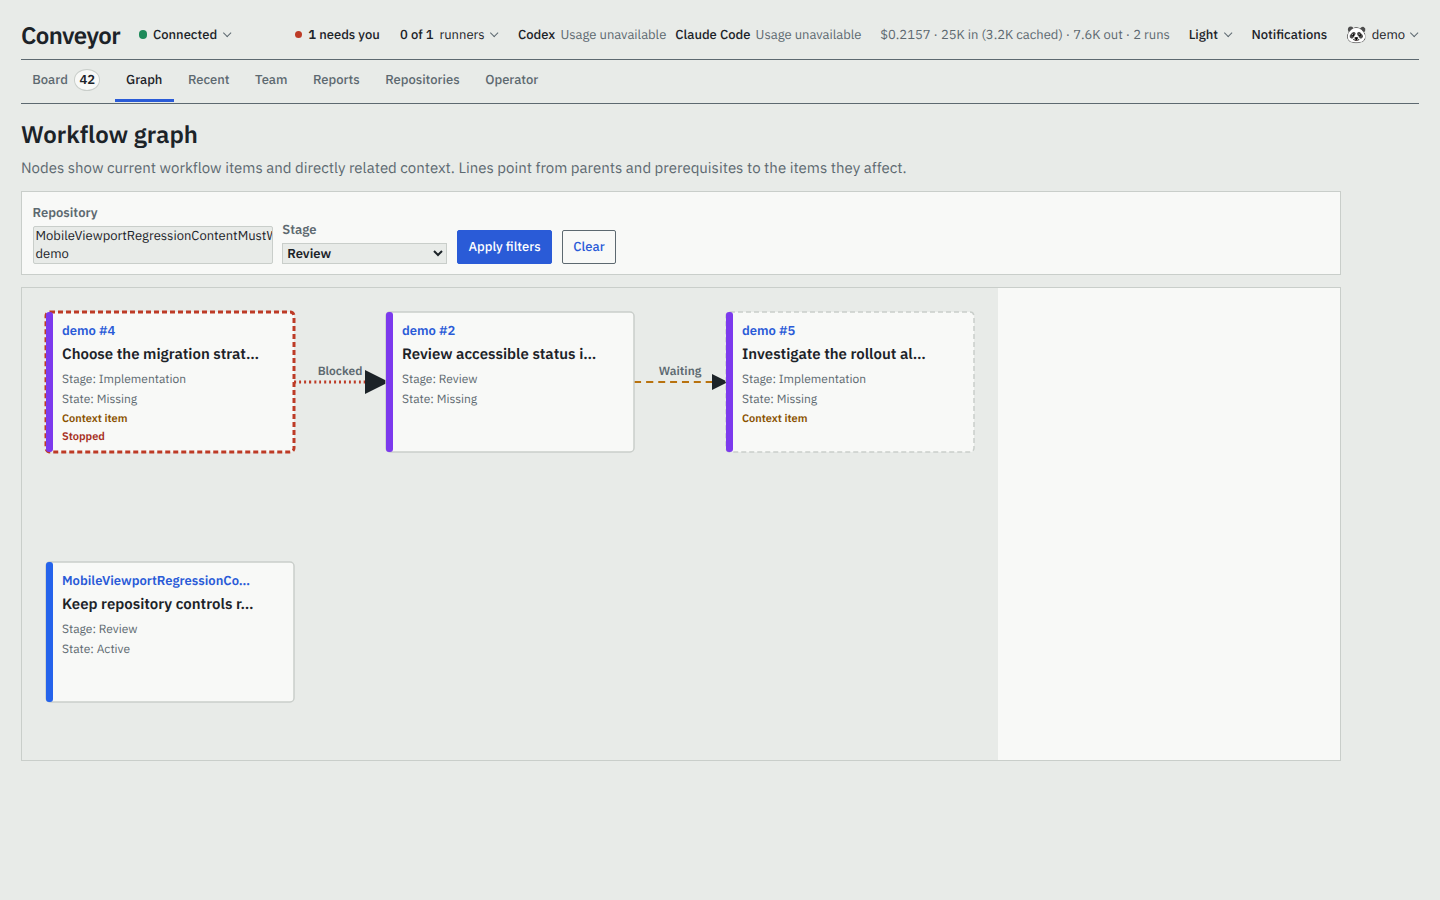
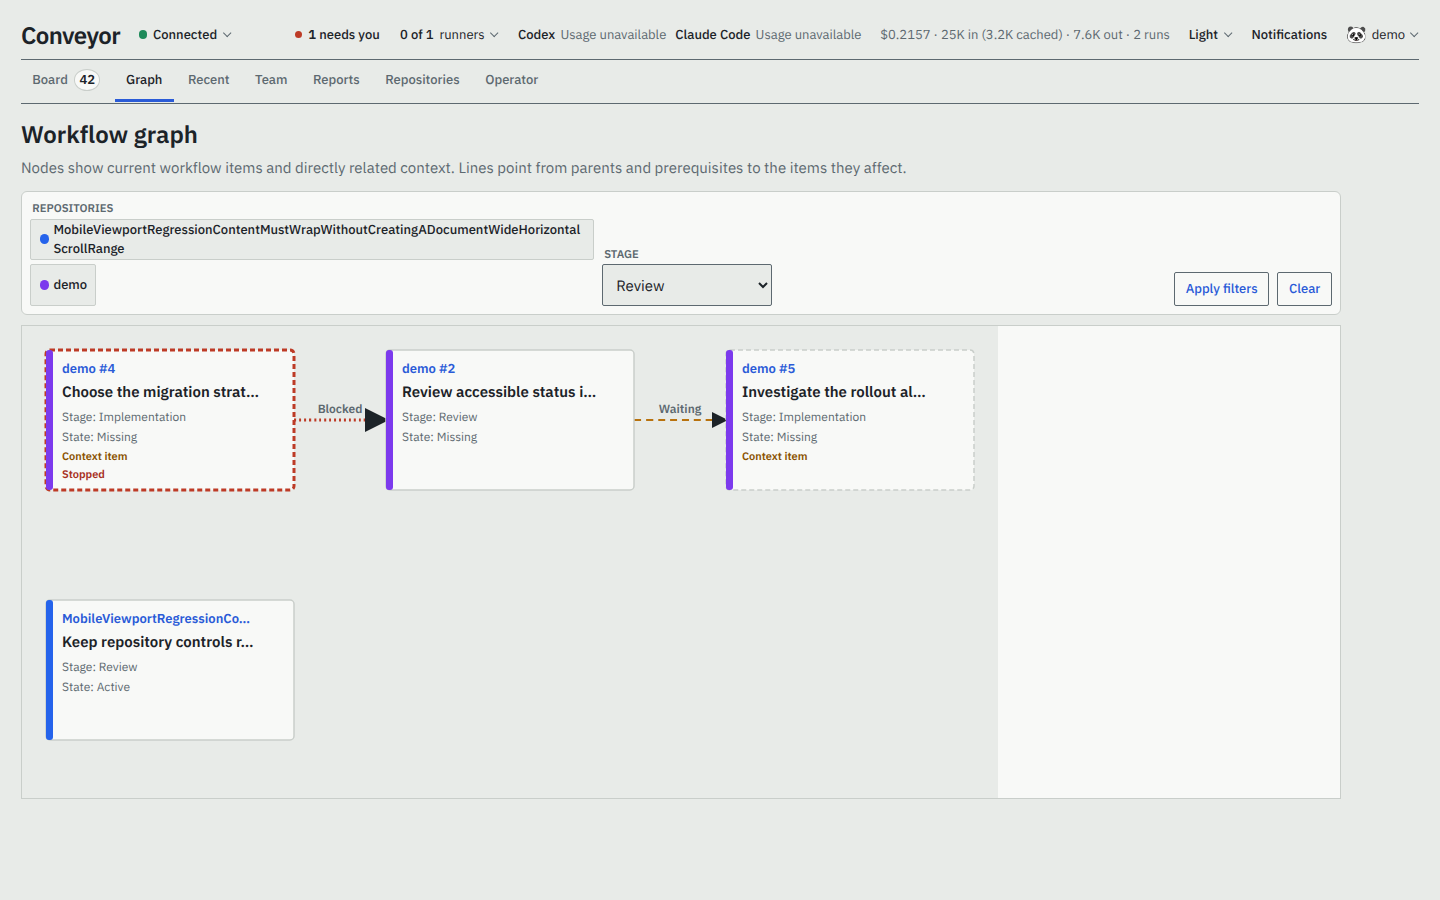
Match graph filters to board controls

diff --git a/src/web/styles.ts b/src/web/styles.ts
@@ -84,6 +84,10 @@ html{scrollbar-color:var(--steel) var(--concrete)}::selection{background:var(--s
 /* Item-detail header metadata wraps before overflowing the narrow inspector. */
 .details-kicker{flex-wrap:wrap}.details-stage-badge{flex:none;white-space:nowrap}.details-stage-icon{line-height:1}.details-source-link{min-width:0;overflow-wrap:anywhere}.details-header-actions{flex:none}
 @media(max-width:760px){.details-kicker{gap:.3rem}.details-source-link{flex-basis:100%}}
+` + `
+a:focus-visible,button:focus-visible,input:focus-visible,select:focus-visible,textarea:focus-visible,summary:focus-visible,[tabindex]:focus-visible{outline:3px solid var(--signal);outline-offset:2px}
+.board-filter-select{min-width:0;min-height:2.75rem;box-sizing:border-box;border:1px solid var(--steel);border-radius:2px;background:var(--concrete);color:var(--ink);padding:.45rem .6rem;font:inherit}
+@media(max-width:760px){.board-filter-choices{grid-column:1/-1}.board-filter-select{width:100%}}
 `;
 
 export const stickyNavigationCss = `
@@ -97,7 +101,7 @@ export const stickyNavigationOverridesCss = `
 
 /** Relationship-first layout for the read-only workflow graph. */
 export const graphCss = `
-.graph-view{min-width:0;max-width:88rem}.graph-header{margin:0 0 .8rem}.graph-header h2{margin:0;font-size:var(--text-xl)}.graph-header p{margin:.3rem 0 0;color:var(--steel)}.graph-empty{margin:0;padding:.8rem;border:1px solid var(--line);background:var(--panel);color:var(--steel)}.graph-filters{display:flex;flex-wrap:wrap;gap:.65rem;align-items:end;margin:0 0 .8rem;padding:.7rem;border:1px solid var(--line);background:var(--panel)}.graph-filters label{display:grid;gap:.25rem;color:var(--steel);font-size:var(--text-sm);font-weight:600}.graph-filters select{min-width:11rem;max-width:16rem;background:var(--concrete);color:var(--ink);border:1px solid var(--line);font:inherit}.graph-filter-actions{display:flex;gap:.65rem;align-items:center}.graph-canvas{max-width:100%;overflow-x:auto;overflow-y:hidden;border:1px solid var(--line);background:var(--panel);scrollbar-color:var(--steel) var(--concrete)}.graph-svg{display:block;min-width:44rem;background:var(--concrete)}.graph-edge path{fill:none;stroke:var(--signal);stroke-width:2}.graph-edge path+text{font-size:12px;font-weight:700;paint-order:stroke;stroke:var(--concrete);stroke-width:4px;stroke-linejoin:round;fill:var(--steel)}.graph-edge--dependency path{stroke:var(--wait);stroke-dasharray:7 5}.graph-edge--satisfied path{stroke:var(--run);stroke-dasharray:none}.graph-edge--stopped path{stroke:var(--stop);stroke-dasharray:2 3;stroke-width:3}.graph-edge--satisfied text{fill:var(--run-text)}.graph-edge--outstanding text{fill:var(--wait-text)}.graph-edge--stopped text{fill:var(--stop-text)}.graph-svg marker path{fill:var(--ink)}.graph-node{cursor:pointer}.graph-node rect:first-of-type{fill:var(--panel);stroke:var(--line);stroke-width:1.5}.graph-node-color{fill:var(--repo-color);stroke:none}.graph-node--context rect:first-of-type{stroke-dasharray:5 3}.graph-node--context .graph-node-color{fill:var(--wait)}.graph-node--stop rect:first-of-type{stroke:var(--stop);stroke-width:3}.graph-node--stop .graph-node-color{fill:var(--stop)}.graph-node-reference{fill:var(--signal);font-size:13px;font-weight:700}.graph-node-title{fill:var(--ink);font-size:15px;font-weight:700}.graph-node-detail{fill:var(--steel);font-size:12px}.graph-node-badge,.graph-node-stop{font-size:11px;font-weight:700}.graph-node-badge{fill:var(--wait-text)}.graph-node-stop{fill:var(--stop-text)}.graph-node:focus{outline:none}.graph-node:focus rect:first-of-type,.graph-node:hover rect:first-of-type{stroke:var(--signal);stroke-width:3}.graph-node--stop:focus rect:first-of-type,.graph-node--stop:hover rect:first-of-type{stroke:var(--stop)}.graph-relationships{margin:.8rem 0 0;padding:.7rem;border:1px solid var(--line);background:var(--panel)}.graph-relationships ol{margin:0;padding:0;list-style:none}.graph-relationship{font-size:var(--text-sm)}.graph-relationship span{color:var(--steel)}@media(max-width:760px){.graph-view{max-width:100%}.graph-filters{align-items:stretch}.graph-filters label,.graph-filters select{max-width:none;min-width:0;width:100%}.graph-filter-actions>*:not(.action-button){min-height:2rem;display:inline-flex;align-items:center}.graph-canvas{width:100%}.graph-svg{min-width:44rem}}
+.graph-view{min-width:0;max-width:88rem}.graph-header{margin:0 0 .8rem}.graph-header h2{margin:0;font-size:var(--text-xl)}.graph-header p{margin:.3rem 0 0;color:var(--steel)}.graph-empty{margin:0;padding:.8rem;border:1px solid var(--line);background:var(--panel);color:var(--steel)}.graph-canvas{max-width:100%;overflow-x:auto;overflow-y:hidden;border:1px solid var(--line);background:var(--panel);scrollbar-color:var(--steel) var(--concrete)}.graph-svg{display:block;min-width:44rem;background:var(--concrete)}.graph-edge path{fill:none;stroke:var(--signal);stroke-width:2}.graph-edge path+text{font-size:12px;font-weight:700;paint-order:stroke;stroke:var(--concrete);stroke-width:4px;stroke-linejoin:round;fill:var(--steel)}.graph-edge--dependency path{stroke:var(--wait);stroke-dasharray:7 5}.graph-edge--satisfied path{stroke:var(--run);stroke-dasharray:none}.graph-edge--stopped path{stroke:var(--stop);stroke-dasharray:2 3;stroke-width:3}.graph-edge--satisfied text{fill:var(--run-text)}.graph-edge--outstanding text{fill:var(--wait-text)}.graph-edge--stopped text{fill:var(--stop-text)}.graph-svg marker path{fill:var(--ink)}.graph-node{cursor:pointer}.graph-node rect:first-of-type{fill:var(--panel);stroke:var(--line);stroke-width:1.5}.graph-node-color{fill:var(--repo-color);stroke:none}.graph-node--context rect:first-of-type{stroke-dasharray:5 3}.graph-node--context .graph-node-color{fill:var(--wait)}.graph-node--stop rect:first-of-type{stroke:var(--stop);stroke-width:3}.graph-node--stop .graph-node-color{fill:var(--stop)}.graph-node-reference{fill:var(--signal);font-size:13px;font-weight:700}.graph-node-title{fill:var(--ink);font-size:15px;font-weight:700}.graph-node-detail{fill:var(--steel);font-size:12px}.graph-node-badge,.graph-node-stop{font-size:11px;font-weight:700}.graph-node-badge{fill:var(--wait-text)}.graph-node-stop{fill:var(--stop-text)}.graph-node:focus{outline:none}.graph-node:focus rect:first-of-type,.graph-node:hover rect:first-of-type{stroke:var(--signal);stroke-width:3}.graph-node--stop:focus rect:first-of-type,.graph-node--stop:hover rect:first-of-type{stroke:var(--stop)}.graph-relationships{margin:.8rem 0 0;padding:.7rem;border:1px solid var(--line);background:var(--panel)}.graph-relationships ol{margin:0;padding:0;list-style:none}.graph-relationship{font-size:var(--text-sm)}.graph-relationship span{color:var(--steel)}@media(max-width:760px){.graph-view{max-width:100%}.graph-canvas{width:100%}.graph-svg{min-width:44rem}}
 `;
 
 export const quotaHeaderCss = `

diff --git a/tests/web/refresh-position.test.ts b/tests/web/refresh-position.test.ts
@@ -44,6 +44,16 @@ function issue(id: string, number: number, title = id): IssueCardViewModel {
   };
 }
 
+function repository(id: string, color: number): DashboardViewModel["repositories"][number] {
+  return {
+    id, address: `owner/${id}`, addressUrl: null, color, health: "healthy", error: null, errorSummary: null, lastReconciledAt: null, pause: null,
+    backlog: 0, stages: [], done: 0, items: [], deliveries: [], skippedReviewItems: [], capacity: { busy: 0, slots: 1 },
+    setup: { pipeline: "delivery", baseBranch: "main", itemProvider: "github", itemSync: "polling", webhooks: null, githubCalls: { total: 0, bySource: [] }, ciProvider: null, ciMode: "disabled", systemLabels: [] },
+    trust: { visibility: "unknown", checkedAt: null, warning: null, permissionThreshold: "write, maintain, or admin", extraTrustedLogins: [], ignoredInputCategories: [] },
+    report30d: { delivered: 0, inputTokens: 0, outputTokens: 0, agentMs: 0 },
+  };
+}
+
 function stage(id: string, name: string, issues: readonly IssueCardViewModel[]): StageColumnViewModel {
   return { id, name, actors: [], cost: null, totalIssues: issues.length, page: 1, totalPages: 1, issues };
 }
@@ -411,10 +421,17 @@ describe("dashboard live refresh position", () => {
   }, 30_000);
 
   test("keeps the Graph usable at 360 px without horizontal page scrolling", async () => {
+    const repositories = [repository("sample", 1), repository("foundation", 2)];
     const server = startDashboard({
       dashboard: (selection) => ({
         ...dashboard("graph-1", [issue("parent", 41), issue("child", 42), issue("prerequisite", 7)]),
         view: selection.view,
+        repositories,
+        graphFilters: {
+          repositories: selection.repositoryIds ?? [],
+          stage: selection.graphStage ?? null,
+          stages: [{ id: "implementation", name: "Implementation" }, { id: "review", name: "Review" }],
+        },
         graph: {
           nodes: [
             { id: "parent", repository: "sample", repositoryColor: 1, number: 41, title: "A deliberately long parent title that must wrap inside a phone viewport", state: "Active", stage: "Implementation", context: false, signal: "run" },
@@ -435,6 +452,23 @@ describe("dashboard live refresh position", () => {
       const page = await browser.newPage({ viewport: { width: 360, height: 800 }, isMobile: true, hasTouch: true, reducedMotion: "reduce" });
       await signIn(page, server.port);
       await page.goto(`http://127.0.0.1:${server.port}/graph`);
+
+      const sampleRepository = page.getByRole("checkbox", { name: "sample" });
+      const foundationRepository = page.getByRole("checkbox", { name: "foundation" });
+      await sampleRepository.focus();
+      await page.keyboard.press("Space");
+      expect(await sampleRepository.isChecked()).toBe(true);
+      await foundationRepository.focus();
+      await page.keyboard.press("Space");
+      expect(await foundationRepository.isChecked()).toBe(true);
+      await page.getByLabel("Graph stage").selectOption("review");
+      await Promise.all([
+        page.waitForURL("**/graph?repo=sample&repo=foundation&stage=review"),
+        page.getByRole("button", { name: "Apply filters" }).click(),
+      ]);
+      expect(await sampleRepository.isChecked()).toBe(true);
+      expect(await foundationRepository.isChecked()).toBe(true);
+      expect(await page.getByLabel("Graph stage").inputValue()).toBe("review");
 
       expect(await page.locator(".graph-node").count()).toBe(3);
       expect(await page.locator(".graph-relationship--dependency").textContent()).toContain("Status: stopped prerequisite");
@@ -458,6 +492,16 @@ describe("dashboard live refresh position", () => {
       await prerequisiteNode.focus();
       await prerequisiteNode.press("Enter", { noWaitAfter: true });
       await page.waitForFunction(() => document.querySelector('dialog.issue-details[open]')?.getAttribute('data-issue-id') === 'prerequisite');
+      await page.keyboard.press("Escape");
+      await page.waitForFunction(() => !document.querySelector('dialog.issue-details[open]'));
+
+      await Promise.all([
+        page.waitForURL("**/graph"),
+        page.getByRole("link", { name: "Clear" }).click(),
+      ]);
+      expect(await sampleRepository.isChecked()).toBe(false);
+      expect(await foundationRepository.isChecked()).toBe(false);
+      expect(await page.getByLabel("Graph stage").inputValue()).toBe("");
     } finally {
       server.stop(true);
     }

diff --git a/tests/web/render.test.ts b/tests/web/render.test.ts
@@ -1,7 +1,7 @@
 import { describe, expect, test } from "bun:test";
 import { renderDashboard, renderIssueDetails } from "../../src/web/render";
 import { BUILD } from "../../src/version";
-import { dashboardCss, quotaHeaderCss, themeInitScript } from "../../src/web/styles";
+import { dashboardCss, graphCss, quotaHeaderCss, themeInitScript } from "../../src/web/styles";
 import type { DashboardView, DashboardViewModel, IssueCardViewModel } from "../../src/web/types";
 
 const parent: IssueCardViewModel = {
@@ -411,6 +411,22 @@ describe("renderDashboard", () => {
         repositories: ["sample"], stage: "implementation",
         stages: [{ id: "implementation", name: "Implementation" }, { id: "review", name: "Review" }],
       },
+      repositories: [
+        {
+          id: "sample", address: "owner/sample", addressUrl: null, color: 1, health: "healthy", error: null, errorSummary: null, lastReconciledAt: null, pause: null,
+          backlog: 0, stages: [], done: 0, items: [], deliveries: [], skippedReviewItems: [], capacity: { busy: 0, slots: 1 },
+          setup: { pipeline: "delivery", baseBranch: "main", itemProvider: "github", itemSync: "polling", webhooks: null, githubCalls: { total: 0, bySource: [] }, ciProvider: null, ciMode: "disabled", systemLabels: [] },
+          trust: { visibility: "unknown", checkedAt: null, warning: null, permissionThreshold: "write, maintain, or admin", extraTrustedLogins: [], ignoredInputCategories: [] },
+          report30d: { delivered: 0, inputTokens: 0, outputTokens: 0, agentMs: 0 },
+        },
+        {
+          id: "foundation", address: "owner/foundation", addressUrl: null, color: 2, health: "healthy", error: null, errorSummary: null, lastReconciledAt: null, pause: null,
+          backlog: 0, stages: [], done: 0, items: [], deliveries: [], skippedReviewItems: [], capacity: { busy: 0, slots: 1 },
+          setup: { pipeline: "delivery", baseBranch: "main", itemProvider: "github", itemSync: "polling", webhooks: null, githubCalls: { total: 0, bySource: [] }, ciProvider: null, ciMode: "disabled", systemLabels: [] },
+          trust: { visibility: "unknown", checkedAt: null, warning: null, permissionThreshold: "write, maintain, or admin", extraTrustedLogins: [], ignoredInputCategories: [] },
+          report30d: { delivered: 0, inputTokens: 0, outputTokens: 0, agentMs: 0 },
+        },
+      ],
     });
 
     expect(html).toContain("<title>Graph · Conveyor</title>");
@@ -423,7 +439,21 @@ describe("renderDashboard", () => {
     expect(html).toContain('data-graph-edge="dependency:prerequisite:child"');
     expect(html).toContain('class="graph-canvas"');
     expect(html).toContain('action="/graph"');
+    expect(html).toContain('<section class="board-filters" aria-label="Graph filters">');
+    expect(html).toContain('<fieldset><legend>Repositories</legend>');
+    expect(html).toContain('class="repository-filter"');
+    expect(html).toContain('name="repo" value="sample" checked');
+    expect(html).toContain('name="repo" value="foundation"');
+    expect(html).toContain('class="repository-dot repo-color-1"');
+    expect(html).not.toContain('name="repo" multiple');
+    expect(html).toContain('<fieldset><legend>Stage</legend>');
+    expect(html).toContain('<select class="board-filter-select" name="stage" aria-label="Graph stage">');
+    expect(html).toContain('<option value>All stages</option>');
     expect(html).toContain('<option value="implementation" selected>Implementation</option>');
+    expect(html).toContain('class="board-filter-submit action-button action-button--secondary">Apply filters</button>');
+    expect(html).toContain('class="board-filter-clear action-button action-button--secondary" href="/graph">Clear</a>');
+    expect(graphCss).not.toContain(".graph-filters");
+    expect(dashboardCss).toContain(".board-filter-select");
     expect(html).toContain('data-graph-node="parent"');
     expect(html).toContain('Parent &lt;safe> title that remains available in full');
     expect(html).not.toContain("Parent <safe>");

diff --git a/src/web/render.tsx b/src/web/render.tsx
@@ -1020,20 +1020,29 @@ function graphLayout(nodes: readonly GraphNodeViewModel[], relationships: readon
 
 function GraphFilters({ model }: { model: DashboardViewModel }) {
   const filters = model.graphFilters ?? { repositories: [], stage: null, stages: [] };
-  return <form class="graph-filters" method="get" action="/graph">
-    <label>Repository
-      <select name="repo" multiple size={Math.min(Math.max(model.repositories.length, 1), 4)} aria-label="Graph repositories">
-        {model.repositories.map((repository) => <option value={repository.id} selected={filters.repositories.includes(repository.id)} key={repository.id}>{repository.id}</option>)}
-      </select>
-    </label>
-    <label>Stage
-      <select name="stage" aria-label="Graph stage">
-        <option value="" selected={!filters.stage}>All stages</option>
-        {filters.stages.map((stage) => <option value={stage.id} selected={filters.stage === stage.id} key={stage.id}>{stage.name}</option>)}
-      </select>
-    </label>
-    <div class="graph-filter-actions"><button type="submit" class="action-button action-button--primary">Apply filters</button><a class="action-button action-button--secondary" href="/graph">Clear</a></div>
-  </form>;
+  return <section class="board-filters" aria-label="Graph filters">
+    <form method="get" action="/graph">
+      <div class="board-filter-choices">
+        <fieldset><legend>Repositories</legend>
+          {model.repositories.map((repository) => <span class="repository-filter" key={repository.id}>
+            <label>
+              <input type="checkbox" name="repo" value={repository.id} checked={filters.repositories.includes(repository.id)} />
+              <i class={`repository-dot repo-color-${repository.color}`} aria-hidden="true" />
+              {repository.id}
+            </label>
+          </span>)}
+        </fieldset>
+        <fieldset><legend>Stage</legend>
+          <select class="board-filter-select" name="stage" aria-label="Graph stage">
+            <option value="" selected={!filters.stage}>All stages</option>
+            {filters.stages.map((stage) => <option value={stage.id} selected={filters.stage === stage.id} key={stage.id}>{stage.name}</option>)}
+          </select>
+        </fieldset>
+      </div>
+      <button type="submit" class="board-filter-submit action-button action-button--secondary">Apply filters</button>
+      <a class="board-filter-clear action-button action-button--secondary" href="/graph">Clear</a>
+    </form>
+  </section>;
 }
 
 function GraphRelationshipText({ relationship, nodesById }: { relationship: GraphRelationshipViewModel; nodesById: Map<string, GraphNodeViewModel> }) {

diff --git a/tests/web/server.test.ts b/tests/web/server.test.ts
@@ -619,8 +619,8 @@ describe("createWebHandler", () => {
     expect(dashboardCalls.at(-1)).toMatchObject({
       view: "recent", recentCursor: { occurredAt: "2026-10-14T12:00:00.000Z", id: null },
     });
-    await get("/graph?repo=midgame&stage=review");
-    expect(dashboardCalls.at(-1)).toMatchObject({ view: "graph", repositoryIds: ["midgame"], graphStage: "review" });
+    await get("/graph?repo=midgame&repo=foundation&stage=review");
+    expect(dashboardCalls.at(-1)).toMatchObject({ view: "graph", repositoryIds: ["midgame", "foundation"], graphStage: "review" });
     await get("/graph?stage=review&stage=implementation");
     expect(dashboardCalls.at(-1)).toMatchObject({ view: "graph", graphStage: null });
     expect((await get("/team/kaveh")).status).toBe(200);

diff --git a/changes/369-match-graph-filter-to-board.md b/changes/369-match-graph-filter-to-board.md
@@ -1,0 +1,5 @@
+---
+section: Changed
+---
+
+Graph filters now use the same repository chips, grouped controls, and responsive actions as the dashboard board.
